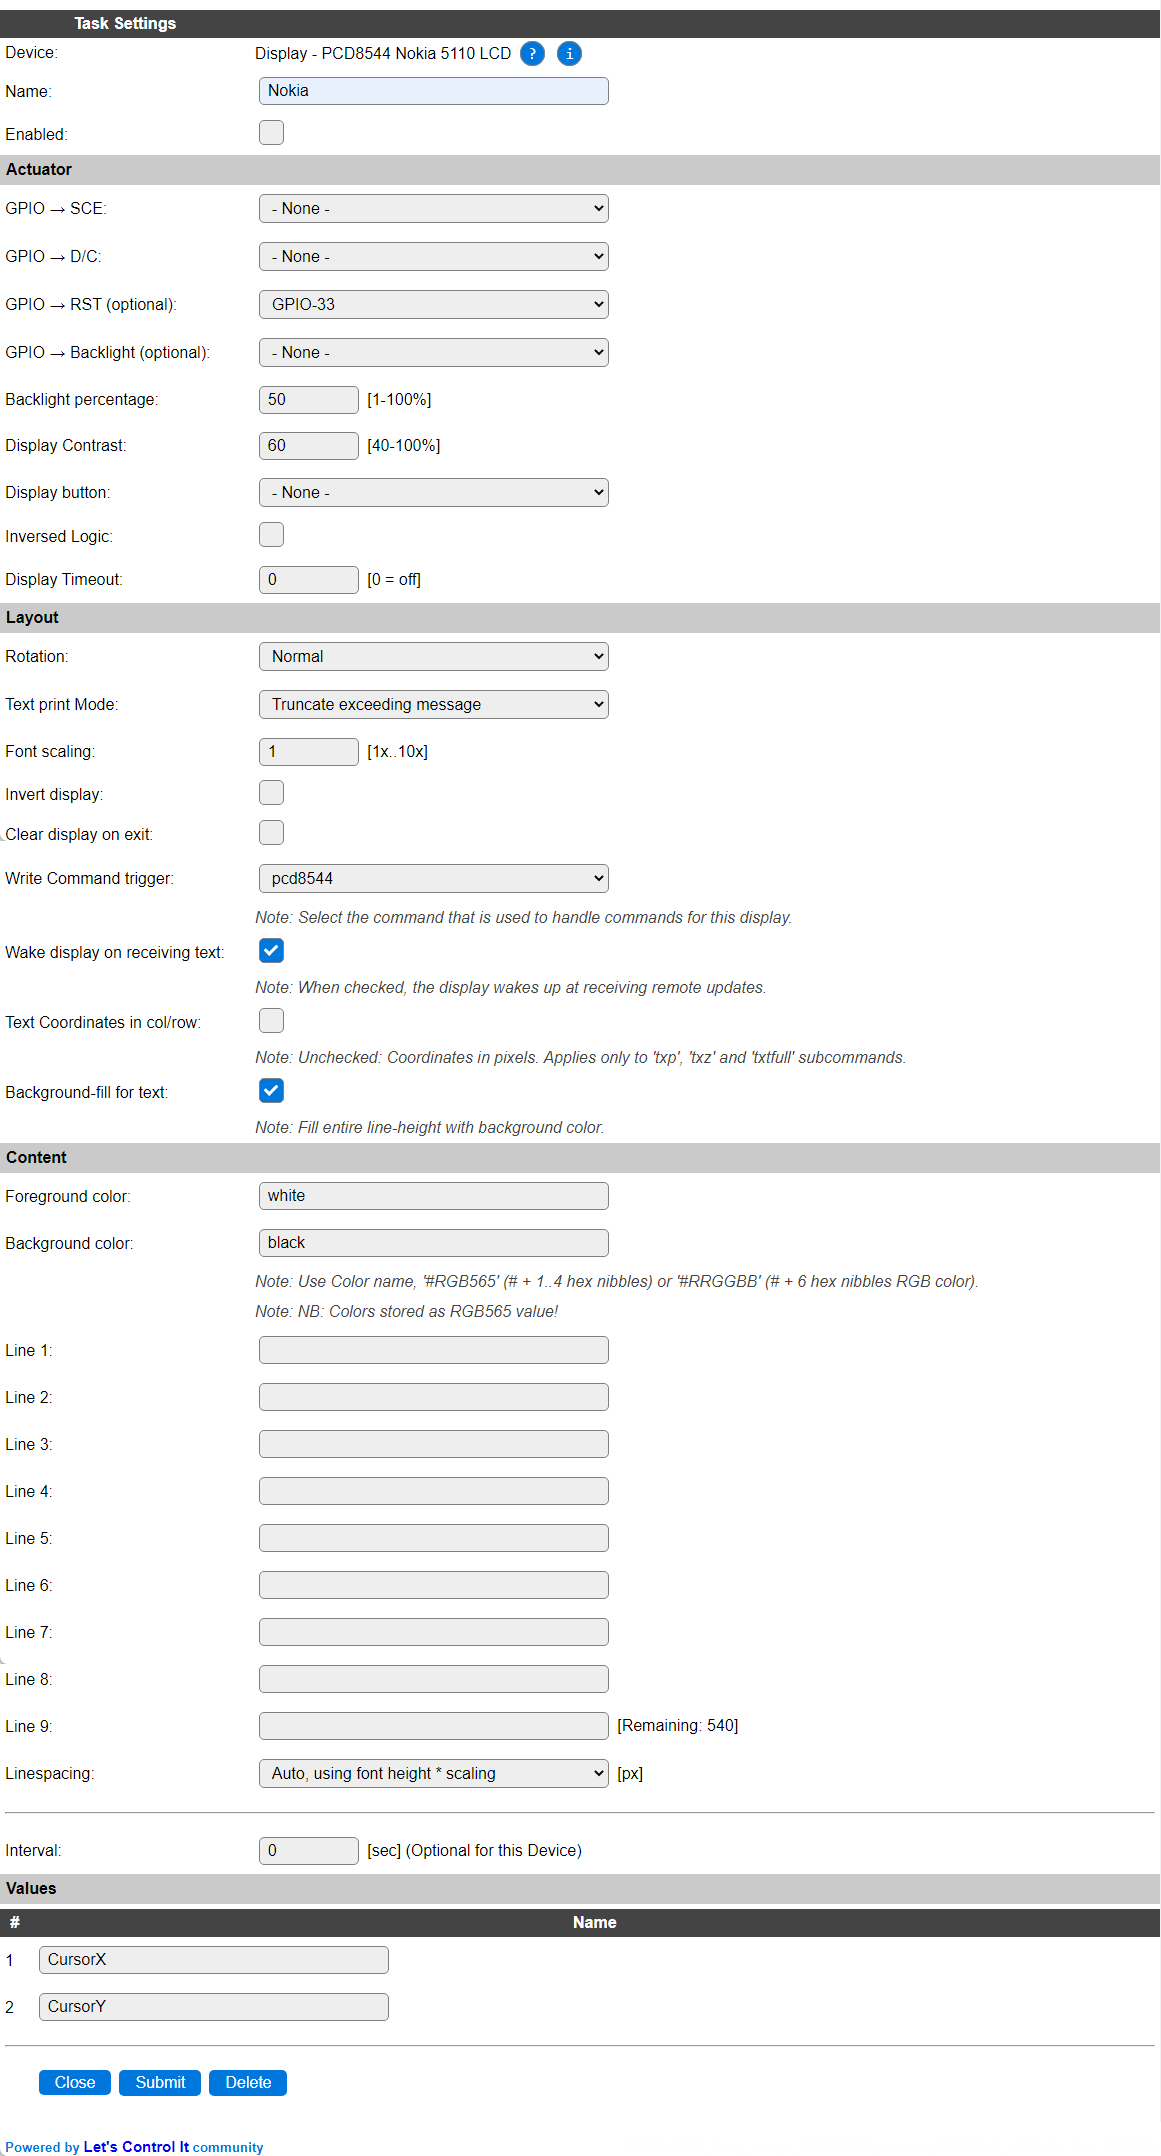
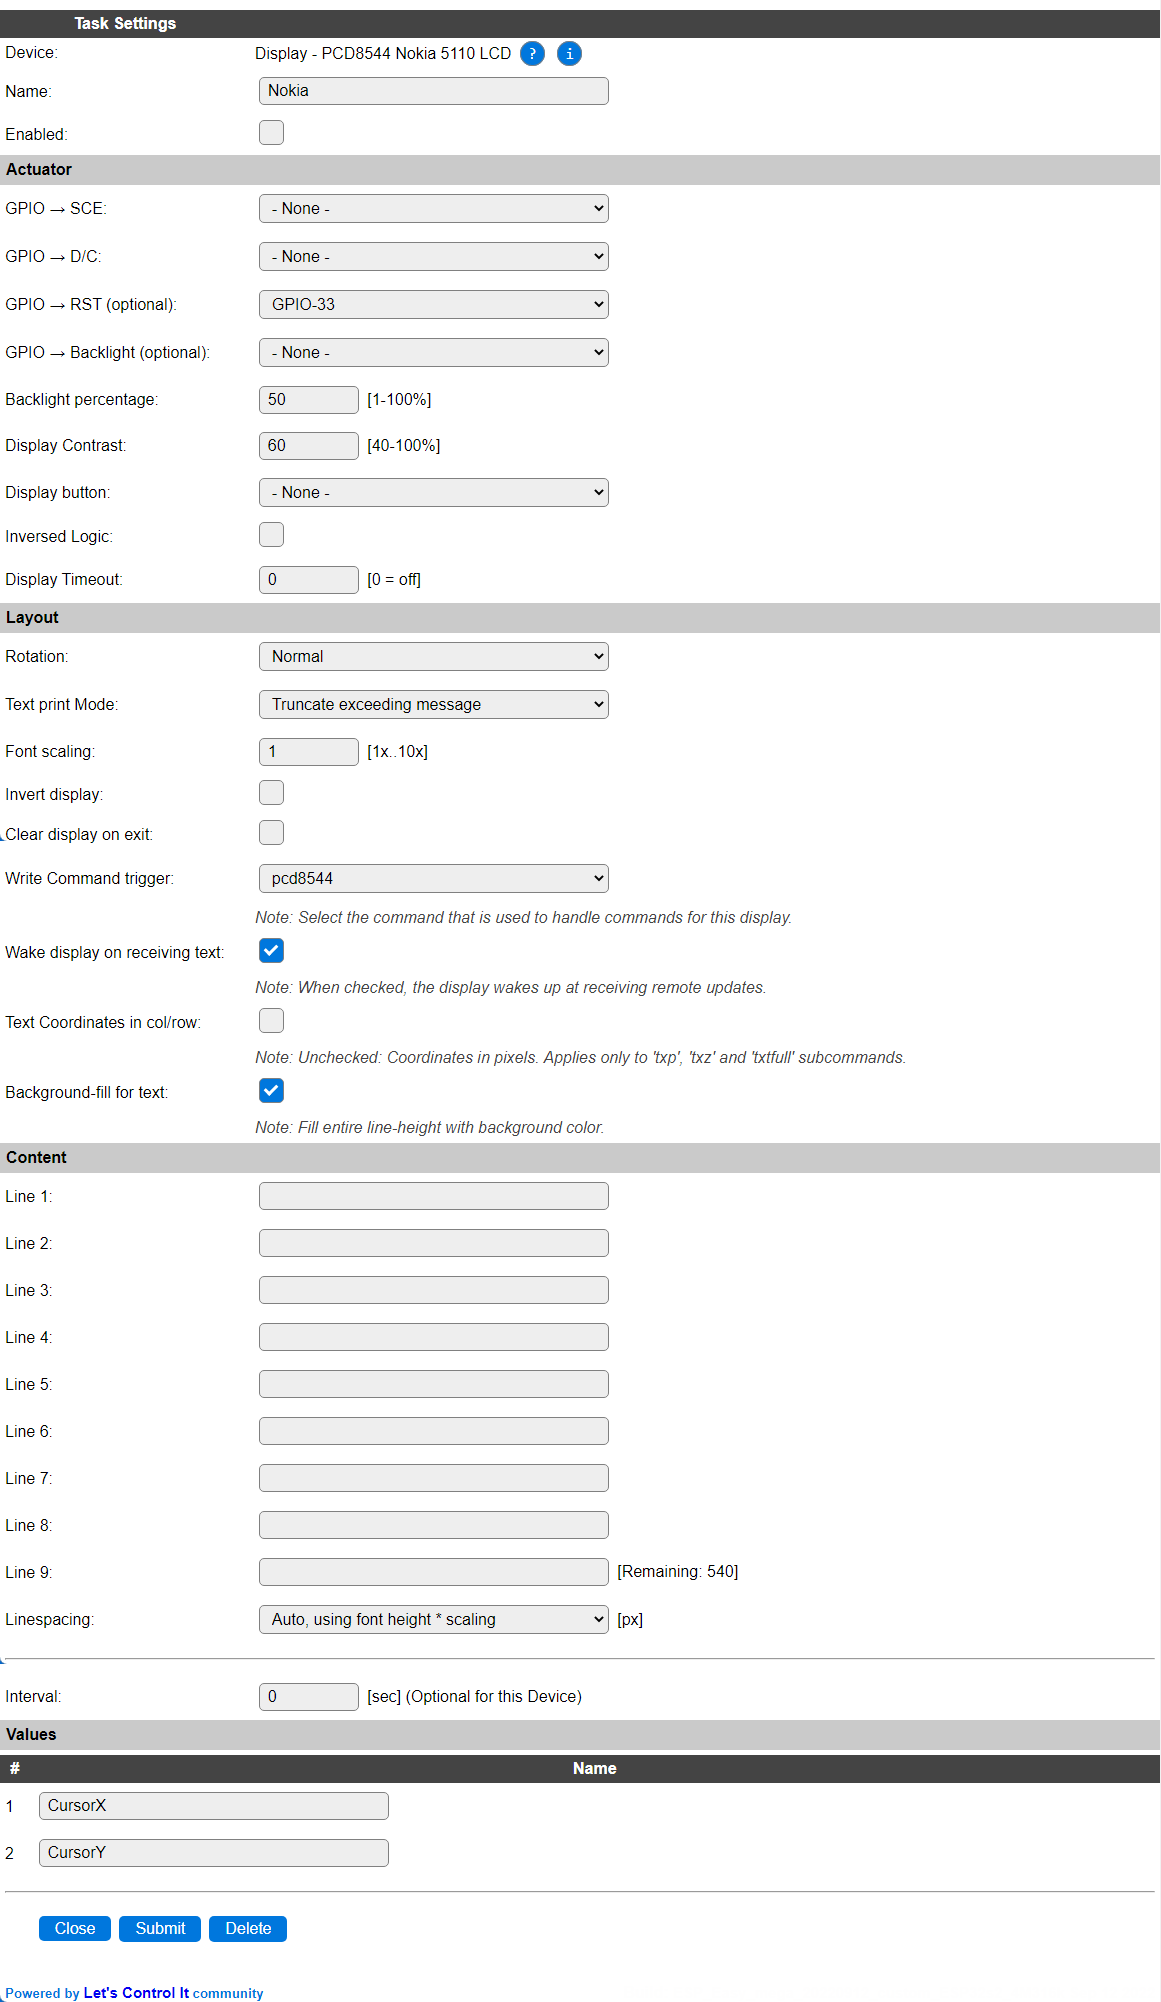
[P141] Update documentation

diff --git a/docs/source/Plugin/P141.rst b/docs/source/Plugin/P141.rst
@@ -139,13 +139,6 @@ The command is handled non-case sensitive. See below for available commands and 
 Content
 ^^^^^^^^
 
-* **Foreground color**
-* **Background color**
-
-These are the default colors, used to display the content as configured below (if any). The background color is also used as the Clear screen color.
-
-This monochrome display only supports colors **white** and **black**
-
 * **Line 1..9** Predefined content can be specified. The number of lines used depends on the font used, the font scaling that is set and the rotation.
 
 The usual variables, like ``[Taskname#Valuename]``, or ``%v1%``, system variables, formulas and functions can be used.
